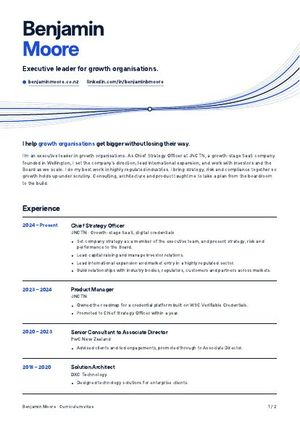
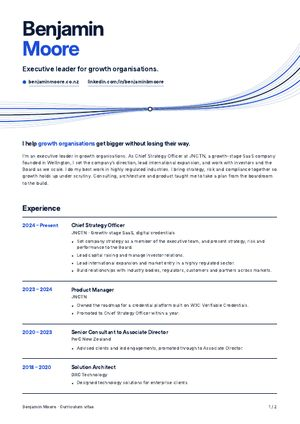
Add files via upload
Reduced animations to only load once when user scrolls.
Updated PDF profile preview image

diff --git a/script.js b/script.js
@@ -39,6 +39,34 @@
   window.addEventListener('resize', onScroll);
   update();
   (function () {
+    if (!document.getAnimations) return;
+    var VT = typeof ViewTimeline !== 'undefined' ? ViewTimeline : null;
+    if (!VT) return;
+    var PROPS = ['opacity', 'transform', 'translate', 'scale', 'rotate', 'clipPath', 'strokeDashoffset', 'filter', 'backgroundColor', 'borderColor'];
+    var done = new WeakSet();
+    function norm(v) { return (v === 'none' || v === 'matrix(1, 0, 0, 1, 0, 0)' || v === 'matrix3d(1, 0, 0, 0, 0, 1, 0, 0, 0, 0, 1, 0, 0, 0, 0, 1)') ? 'none' : v; }
+    function keepLive(el) { return el && el.closest && el.closest('.nav-name, .scroll-cue, .progress, .la, .lb, .mural'); }
+    function freeze() {
+      document.getAnimations().forEach(function (anim) {
+        if (done.has(anim) || !anim.effect || !anim.timeline || !(anim.timeline instanceof VT)) return;
+        var target = anim.effect.target, pseudo = anim.effect.pseudoElement || null;
+        if (keepLive(target)) return;
+        var t = anim.effect.getComputedTiming();
+        if (t.progress === null || t.progress < 0.999) return;
+        var snap = null;
+        if (!pseudo) { var b = getComputedStyle(target); snap = PROPS.map(function (k) { return b[k]; }); }
+        done.add(anim);
+        anim.cancel();
+        if (snap) { var a = getComputedStyle(target); PROPS.forEach(function (k, i) { if (norm(a[k]) !== norm(snap[i])) target.style[k] = snap[i]; }); }
+      });
+    }
+    var fr = null;
+    function onF() { if (!fr) fr = requestAnimationFrame(function () { fr = null; freeze(); }); }
+    window.addEventListener('scroll', onF, { passive: true });
+    window.addEventListener('resize', onF);
+    setTimeout(freeze, 400);
+  })();
+  (function () {
     var hero = document.getElementById('top');
     var paths = Array.prototype.slice.call(document.querySelectorAll('.hs-flex'));
     var node = document.querySelector('.hs-node');
